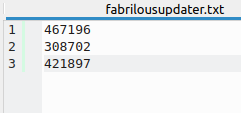
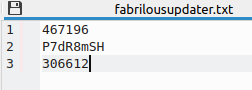
modrinth in readme

Changed region(s): [[0.0, 0.0, 1.0, 1.0]]

diff --git a/README.md b/README.md
@@ -1,16 +1,18 @@
 # Fabrilous Updater
 Minecraft server-side (works in singleplayer!) mod used to check for updates to your Fabric mods.
 
-Note: Only works with mods uploaded to CurseForge.
+Note: Only works with mods on CurseForge and Modrinth.
 
 ## How to use?
 
-Place the mod in your mods folder and make sure you run it once. Then, open the "fabrilousupdater.txt" file found in your config folder. Open the CurseForge page for the mod you want to check for updates. Copy the mod's Project ID and paste it into "fabrilousupdater.txt" one line at a time (See photos). That's it! ALSO MAKE SURE YOU DO NOT RENAME YOUR MODS!!
+Place the mod in your mods folder and make sure you run it once. Then, open the "fabrilousupdater.txt" file found in your config folder. Open the website for the mod you want to check for updates. Copy the mod's Project ID and paste it into "fabrilousupdater.txt" one line at a time (See photos). That's it! ALSO MAKE SURE YOU DO NOT RENAME YOUR MODS!!
 
 ## Commands
 * "/fabdate update" - Shows a list of mods needing updates with an easy click download link.
 * "/fabdate list" - Shows a list of all mods in the "fabrilousupdater.txt" file.
 
-![](readme-images/1.png)
+![](readme-images/1.png) (CurseForge)
+
+![](readme-images/3.png) (Modrinth)
 
 ![](readme-images/2.png) (3 mods added)
